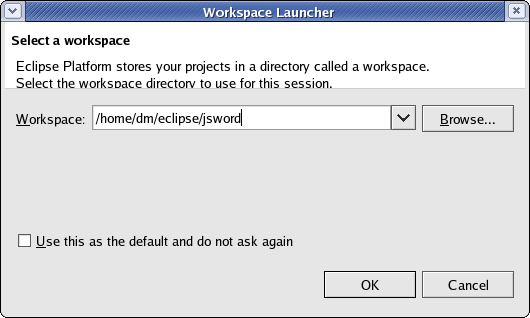
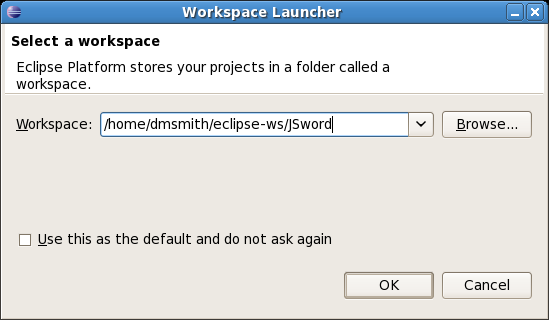
Updated instructions for using Eclipse.

diff --git a/jsword-web/src/web/Eclipse.html b/jsword-web/src/web/Eclipse.html
@@ -45,7 +45,7 @@
 </p>
 <p>
   <strong>NOTE:</strong>BibleDesktop looks best in Java 5 or later and for
-  <em>right-to-left</em> languages it is almost a necessity. For this reason,
+  <em>right-to-left</em> languages it is a necessity. For this reason,
   it is strongly recommended that the builds are done with Java 1.4.2,
   but that running is done with Java 1.5 or better. If you are not changing
   java code, but only working on translations, you only need to install Java 1.5.0 SDK.
@@ -62,7 +62,7 @@
 <h2>Obtain and install Eclipse 3.3</h2>
 <p>
   Any version of Eclipse 3.3 or higher will work well. The screenshots that
-  are provided are from 3.1, Linux, GTK version, running under
+  are provided are from 3.3, Linux, GTK version, running under
   the Gnome desktop.
 </p>
 <p>
@@ -124,15 +124,16 @@
 
 <h3>Connect to JSword's SVN repository</h3>
 <p>
-  Add the SVN Respository Exploring perspective.
-  <a href="images/eclipse/repositoryperspective.png">[Image]</a>
+  Click on the <q>Open Perspective button.</q> <a href="images/eclipse/openperspective.png">[Image]</a>
+  And then pick the <q>Other</q> menu choice. <a href="images/eclipse/otherperspective.png">[Image]</a>
+  This will provide you with a dialog box of various perspectives. Choose the
+  <q>SVN Repository Exploring</q> perspective. <a href="images/eclipse/svnperspective.png">[Image]</a>
 </p>
 <ul>
   <li>This will automatically open the SVN Repository Exploring perspective.</li>
-  <li>Click on the <q>Add SVN Repository</q> button.</li>
-  <li>For the URL use the value: http://www.crosswire.org/svn/jsword/trunk.<br/>
-    This will provide you with read-only access to the repository.
-    To change the code you will submit patches which is explained below.
+  <li>Click on the <q>Add SVN Repository</q> button. <a href="images/eclipse/svnaddrepository.png">[Image]</a></li>
+  <li>For the URL use the value: http://www.crosswire.org/svn/jsword/trunk.
+      <a href="images/eclipse/svnjswordurl.png">[Image]</a>
   </li>
   <li>Open the repository, expanding https://www.crosswire.org/svn/jsword/trunk.</li>
   <li>Select at a minimum the following:
@@ -143,8 +144,8 @@
         <li>jsword</li>
       </ul>
   </li>
-  <li>Right click on one of the selection and choose <q>Checkout...</q>
-      and then click <q>Finish</q>.</li>
+  <li>Right click on one of the selection and choose <q>Checkout...</q> <a href="images/eclipse/svncheckout.png">[Image]</a></li>
+      and then click <q>Finish</q>. <a href="images/eclipse/checkoutasprojects.png">[Image]</a></li>
   <li>Later you may wish to do help maintain the website and then you will
       want bibledesktop-web and jsword-web.</li>
   <li>You don't need this perspective for day to day development,
@@ -163,14 +164,13 @@
 <h3>Letting Eclipse Know Where Java is Installed</h3>
 <p>
   Under Windows -> Preferences (on the Mac it is Eclipse -> Preferences), 
-  expand <q>Java</q> and then select <q>Installed JRE</q>. Here add entries labelled,
-  jdk-1.4.2 and jdk-1.5.0. Under Linux, installed according to the instructions above,
+  expand <q>Java</q> and then select <q>Installed JRE</q>. <a href="images/eclipse/javasetup.png">[Image]</a>
+  Here click on the <q>Add</q> button and add entries labelled,
+  jdk-1.4.2 <a href="images/eclipse/jdk142setup.png">[Image]</a> and jdk-1.5.0 <a href="images/eclipse/jdk150setup.png">[Image]</a>. Under Linux, installed according to the instructions above,
   Java 1.4.2 would have a path something like <code>/usr/lib/jvm/java-1.4.2-sun-1.4.2.12</code>.
   You can use the search button to find them and re-label them afterwards.
-</p>
-<p>
-  During development we want <q>assertions</q> to be turned on. So double click on the entry
-  and add <q>-ea</q> for the <q>Default VM Args</q>.
+  Make sure that you have <q>assertions</q> turned on for development by adding <q>-ea</q> for the <q>Default VM Args</q>.
+  When you are all done it should look like this. <a href="images/eclipse/javafinalsetup.png">[Image]</a>
 </p>
 
 <h3>Working under the Java Perspective</h3>
@@ -179,13 +179,26 @@
   My personal rut is the Java Perspective. This can be added in the same manner
   that the SVN Repository Exploring Perspective was added.
 </p>
+<p>
+  Finding code is relatively easy. All source is under <q>src</q>. Under there you will find
+  <q>main</q>, with all of the main code and <q>test</q> with all of the test code. Under
+  <q>main</q> we currently only have java code, but we have structured this to allow for other
+  kind of code. <a href="images/eclipse/findingcode.png">[Image]</a>
+</q>
 
 <h3>Initial testing</h3>
 <p>
   Initial testing is nothing more than running the application and seeing it work as expected.
-  This has been made easy. If you have named the <q>Installed JREs</q> as instructed above.
-  In the <q>Java Perspective</q>, click on the triangle on the right of the <q>Run</q> button and
-  choose <q>BD-app-jdk15</q> or <q>BD-app-jdk142</q>, depending on your needs, wants and desires.
+  This has been made easy, <i>if</i> you have named the <q>Installed JREs</q> as instructed above.
+  In the <q>Java Perspective</q>, click on the triangle on the right of the <q>Run</q> button.
+  The first time you do this, it will not be a very useful list. From that list, pick <q>Open Run Dialog</q>
+  <a href="images/eclipse/pickrundialog.png">[Image]</a>. In the Run dialog, expand <q>Java Applications</q>
+  and then click on <q>Run</q> <a href="images/eclipse/rundialog.png">[Image]</a>. You can add other
+  launchers in a similar fashion.
+</p>
+<p>
+  Once you have added run BibleDesktop in this fashion it is added to the list.
+  <a href="images/eclipse/runBD.png">[Image]</a>
   During the run, output will go to the <q>Console</q>, and from there you can terminate the
   application if it becomes unresponsive.
 </p>
@@ -195,9 +208,9 @@
   This can be added in the same manner that the
   <q>SVN Repository Exploring Perspective</q> was added.
   To initially connect this perspective to the SVN Repository, click on the
-  <q>Synchronize...</q> button and select <q>SVN</q> if it is not highlighted.
+  <q>Synchronize...</q> button <a href="images/eclipse/svnpicksynchro.png">[Image]</a> and select <q>SVN</q> <a href="images/eclipse/svnsynchro.png">[Image]</a> if it is not highlighted.
   Click on the <q>Next</q> button and then click <q>Select All</q> followed by
-  the <q>Finish</q> button.
+  the <q>Finish</q> button. <a href="images/eclipse/svnsynchrosetup.png">[Image]</a> 
 </p>
 <p>
   When you make changes to any of the projects, this perspective will track the changes.
@@ -210,7 +223,8 @@
   In the <q>Team Synchronization Perspective</q> click on the <q>Synchronize SVN (Workspace)</q>
   button. Click the <q>Incoming</q> button and then select everything that is shown.
   Right clicking will give you all the options that are available to you. Choose <q>Update</q>.
-  If you see <q>Override and Update</q>, stay away from it. It means that one or more of the files
+  <a href="images/eclipse/svnupdate.png">[Image]</a>
+  If you see <q>Override and Update</q> <a href="images/eclipse/svnoverride.png">[Image]</a>, stay away from it. It means that one or more of the files
   being updated have been changed by you and choosing it will throw away your work. Probably
   not what you want.
 </p>
@@ -236,10 +250,12 @@
   few people have permissions elsewhere. To check in, go to the <q>Team Synchronization Perspective</q>
   and click on the <q>Outgoing</q> button. Select what you want to check in. Right clicking
   on something selected will provide you with the opportunity
-  to choose <q>Commit</q>, which will bring up a dialog box. In that dialog box, type a short
+  to choose <q>Commit</q> <a href="images/eclipse/svnpickcommit.png">[Image]</a>, which will bring up a dialog box. In that dialog box, type a short
   explanation describing the change. Below this is a list of everything that has changed and
   a terse label for the change. Review the items in the list and check or uncheck them depending
-  on whether the changes should be checked in. Finally, click on <q>OK</q>.
+  on whether the changes should be checked in. Finally, click on <q>OK</q>. <a href="images/eclipse/svncommitdialog.png">[Image]</a>
+  If the repository is password protected, you will need to supply your password. Saving your password is a good idea,
+  if your machine is secure. <a href="images/eclipse/svnpassword.png">[Image]</a>
 </p>
 </body>
 </html>
